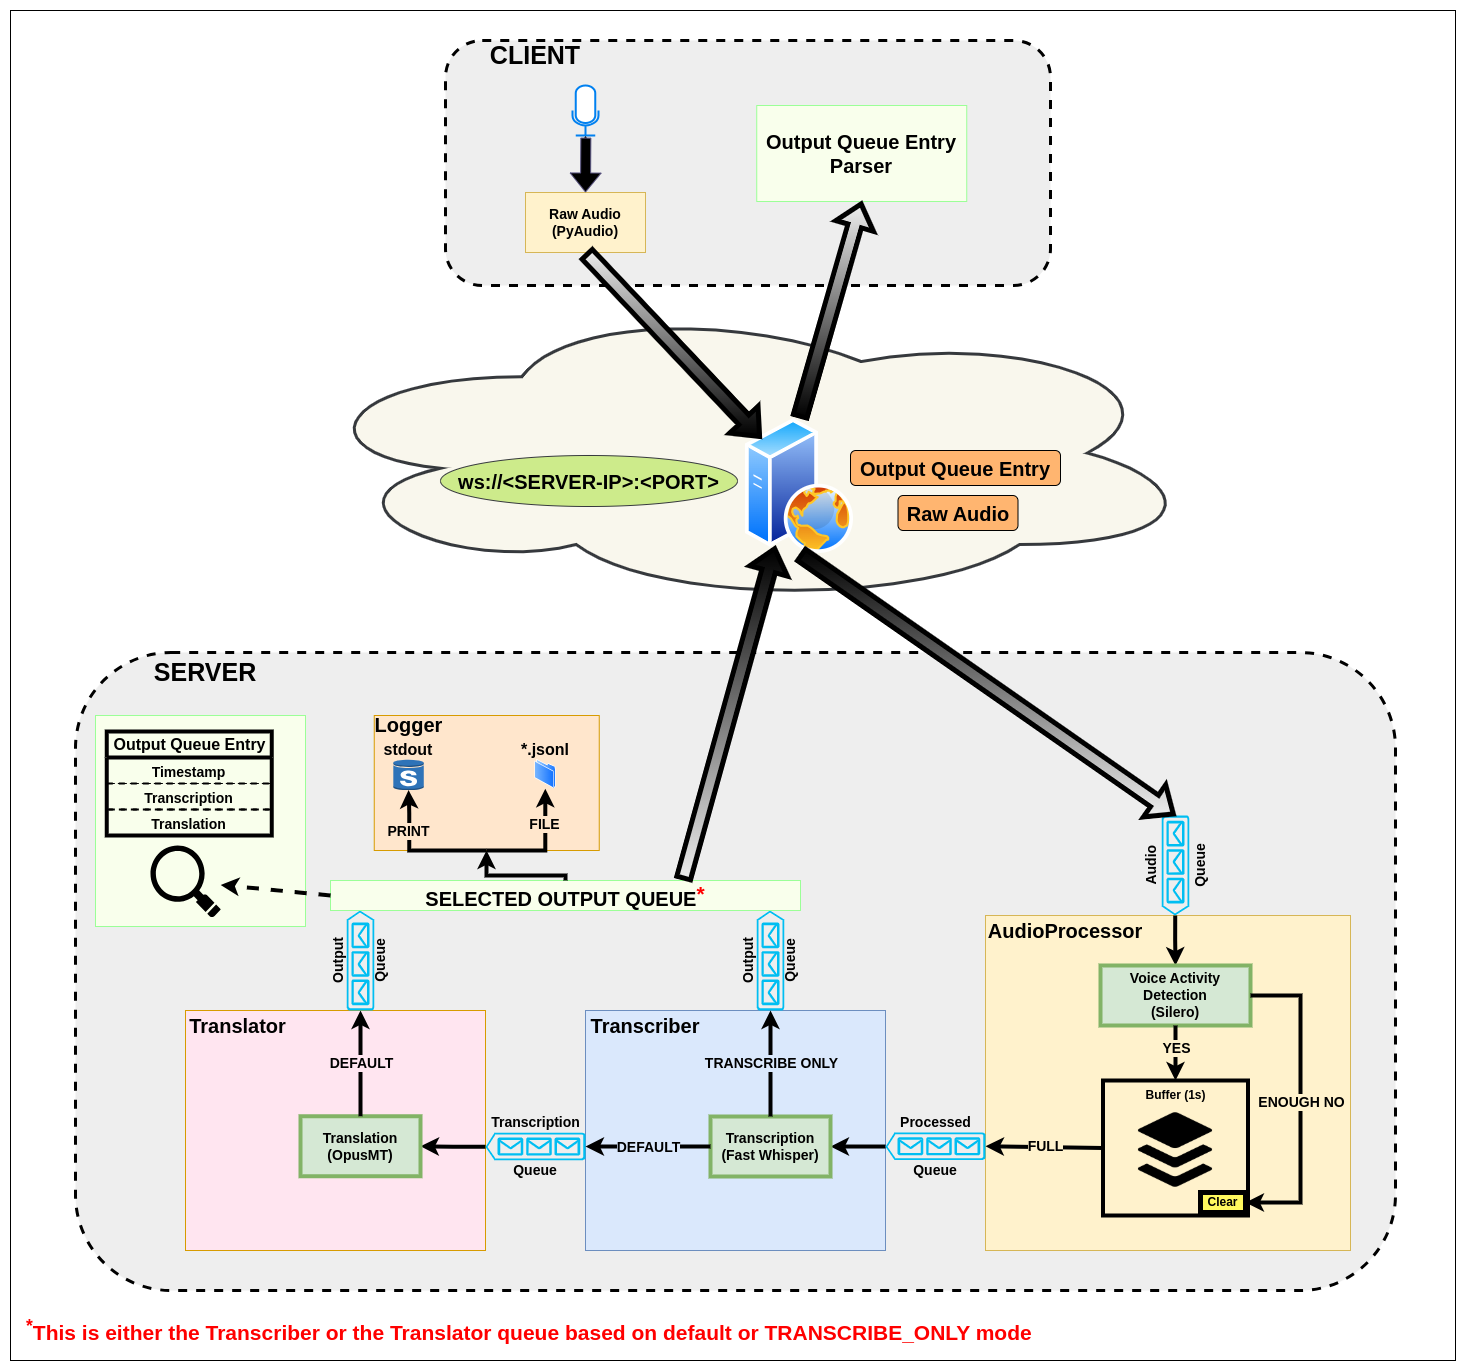
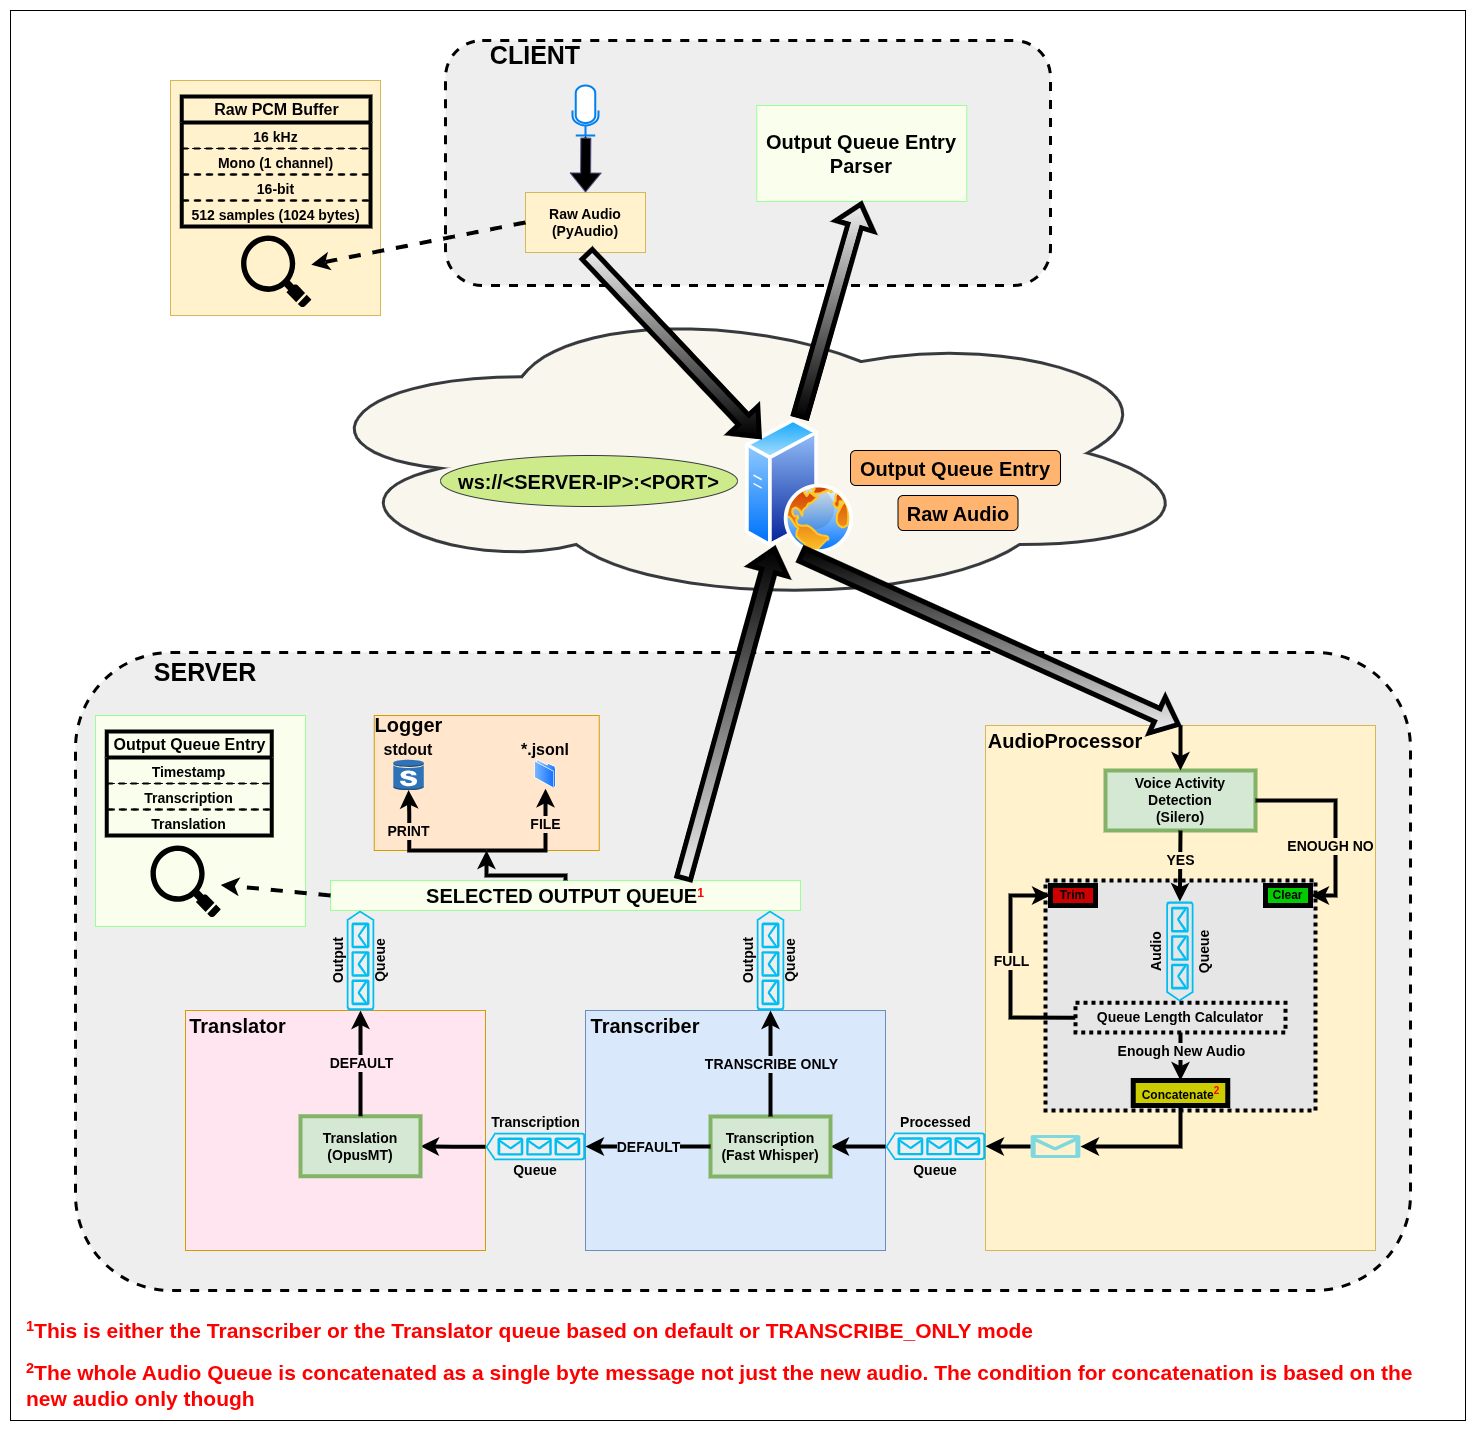
Doc update
* Updated the live_translation diagram
* Added emojis for fun
* Fixed some relative paths to be github main links for better show in pypi package page
* Minor improvements

diff --git a/README.md b/README.md
@@ -40,12 +40,15 @@
 
 ---
 
-## Architecture Overview
+## 👷🏼♂ Architecture Overview
+
+***The diagram ommits finer details***
+
 <img src="https://github.com/AbdullahHendy/live-translation/blob/main/doc/live-translation-pipeline.png?raw=true" alt="Architecture Diagram" />
 
 ---
 
-## Features
+## ⭐ Features
 
 - Real-time speech capture using **PyAudio**
 - Voice Activity Detection (VAD) using **Silero** for more efficient processing
@@ -62,7 +65,7 @@
 
 ---
 
-## Prerequisites
+## 📜 Prerequisites
 
 Before running the project, you need to install the following system dependencies:
 ### **Debian**
@@ -77,7 +80,7 @@ Before running the project, you need to install the following system dependencie
   ```
 ---
 
-## Installation
+## 📥 Installation
 
 **(RECOMMENDED)**: install this package inside a virtual environment to avoid dependency conflicts.
 ```bash
@@ -97,7 +100,7 @@ python -c "import live_translation; print(f'live-translation installed successfu
 
 ---
 
-## Usage
+## 🚀 Usage
 
 > **NOTE**: One can safely ignore similar warnings that might appear on **Linux** systems when running the client as it tries to open the mic:
 >
@@ -196,11 +199,11 @@ python -c "import live_translation; print(f'live-translation installed successfu
 ### Python API
 You can also import and use ***live_translation*** directly in your Python code.
 The following is ***simple*** examples of running ***live_translation***'s server and client in a **blocking** fashion.
-For more detailed examples showing **non-blocking** and **asynchronous** workflows, see [examples/](/examples/).
+For more detailed examples showing **non-blocking** and **asynchronous** workflows, see [./examples/](https://github.com/AbdullahHendy/live-translation/tree/main/examples).
 
 > **NOTE**: The examples below assumes the ***live_translation*** package has been installed as shown in the [Installation](#installation).
 >
-> **NOTE**: To run a provided example using the ***Python API***, see instructions in the `./examples/` directory.
+> **NOTE**: To run a provided example using the ***Python API***, see instructions in the [./examples/](https://github.com/AbdullahHendy/live-translation/tree/main/examples) directory.
 
 - **Server**
   ```python
@@ -280,7 +283,8 @@ The server listens on a WebSocket endpoint (default: `ws://localhost:8765`) and 
   }
 
 ### Client Examples
-For fully working examples in multiple languages, see the `./examples/clients` directory. 
+For fully working, ***yet simple***, examples in multiple languages, see [./examples/clients](https://github.com/AbdullahHendy/live-translation/tree/main/examples/clients)
+To create more complex clients, look at the [python client](https://github.com/AbdullahHendy/live-translation/blob/main/live_translation/client/client.py) for guidance.  
 Available Examples:
 - **Node.js**
 - **Browser JS**
@@ -290,7 +294,7 @@ Available Examples:
 
 ---
 
-## Development & Contribution
+## 🤝 Development & Contribution
 
 To contribute or modify this project, these steps might be helpful:
 > **NOTE**: This workflow below is developed with Linux-based systems with typical build tools installed e.g. ***Make*** in mind. One might need to install ***Make*** and possibly other tools on other systems. However, one can still do things manually without ***Make***, for example, run test manually using `python -m pytest -s tests/` instead of `make test`. 
@@ -324,7 +328,7 @@ make test
 ```bash
 make build
 ```
-> **NOTE**: Building does ***lint*** and checks for ***formatting*** using [ruff](https://docs.astral.sh/ruff/). One can do that seprately using `make format` and `make lint`. For linting and formatting rules, see the [ruff config](/ruff.toml).
+> **NOTE**: Building does ***lint*** and checks for ***formatting*** using [ruff](https://docs.astral.sh/ruff/). One can do that seprately using `make format` and `make lint`. For linting and formatting rules, see the [ruff config](https://github.com/AbdullahHendy/live-translation/blob/main/ruff.toml).
 
 > **NOTE**: Building generates a ***.whl*** file that can be ***pip*** installed in a new environment for testing
 
@@ -342,7 +346,7 @@ live-translate-client [OPTIONS]
 
 ---
 
-## Tested Environment
+## 🌱 Tested Environments
 
 This project was tested and developed on the following system configuration:
 
@@ -362,7 +366,7 @@ This project was tested and developed on the following system configuration:
 
 ---
 
-## Improvements
+## 📈 Improvements
 
 - **ARM64 Support**: Ensure support for ARM64 based systems.
 - **Concurrency Design Check**: Review and optimize the threading design to ensure thread safety and prevent issues like race conditions or deadlocks, etc., revisit the current design of ***WebSocketIO*** being a thread while ***AudioProcessor***, ***Transcriber***, and ***Translator*** being processes.
@@ -372,7 +376,7 @@ This project was tested and developed on the following system configuration:
 
 ---
 
-## Citations
+## 📚 Citations
  ```bibtex
   @article{Whisper,
     title = {Robust Speech Recognition via Large-Scale Weak Supervision},
